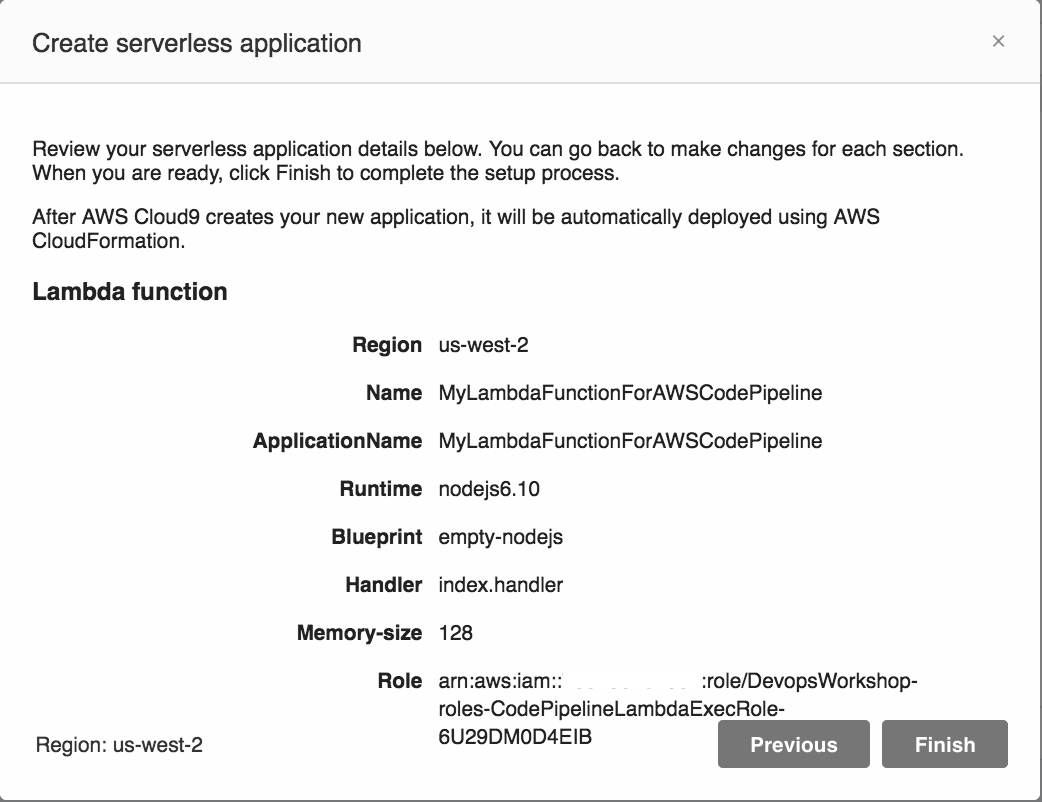
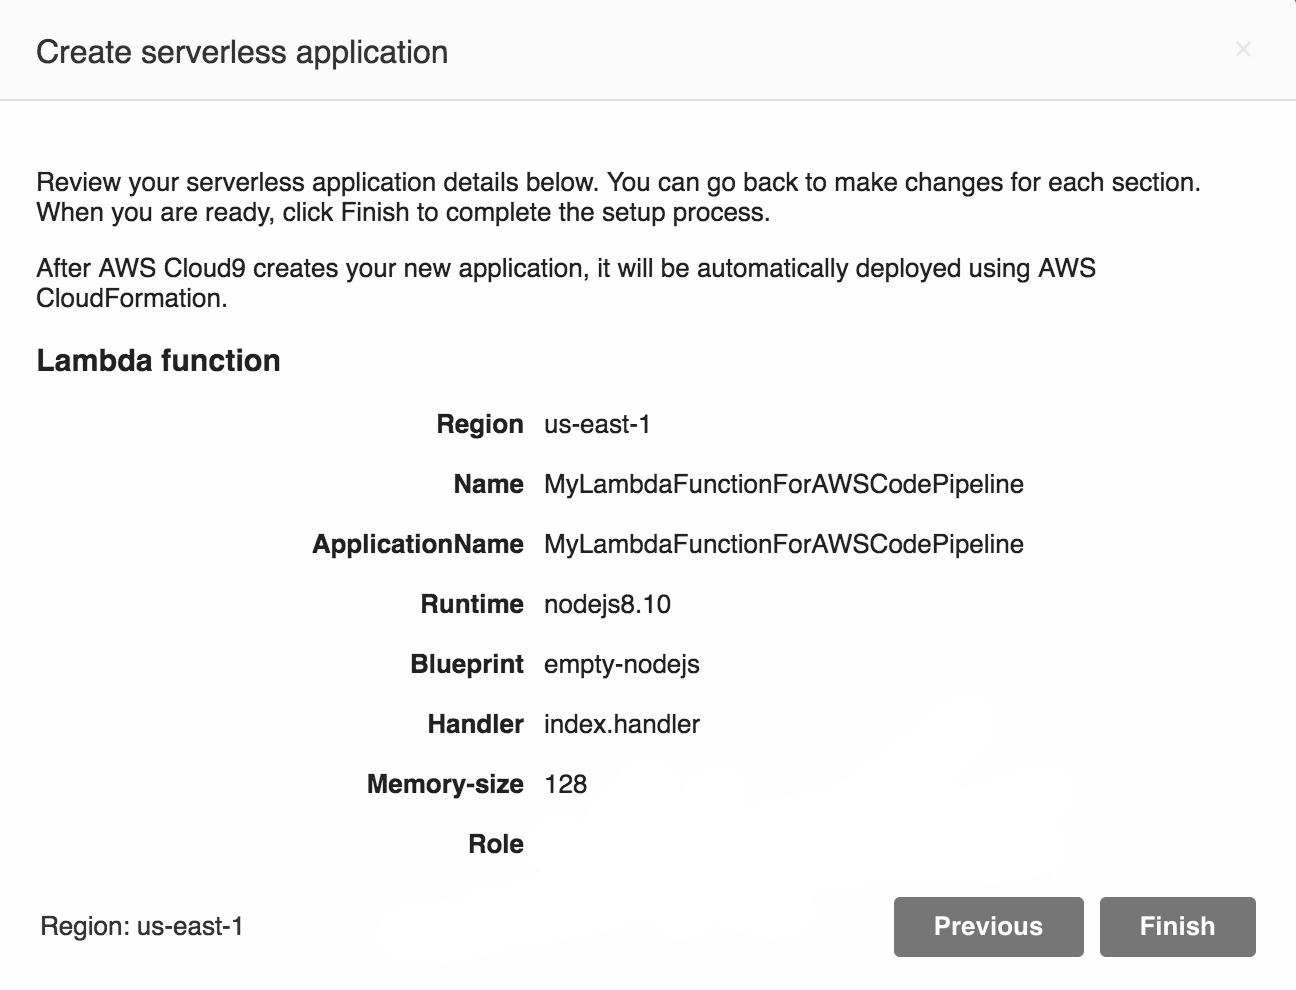
Updated Node.js

diff --git a/4_Lab4.md b/4_Lab4.md
@@ -8,9 +8,9 @@
 3. Expand Lambda, and select **λ+** [Create a lambda function]
 4. Enter Function Name as **MyLambdaFunctionForAWSCodePipeline**
 5. Click **Next**
-6. Select runtime as **Node.js 6.10** and blue print as **empty-nodejs**
+6. Select runtime as **Node.js 8.10** and blue print as **empty-nodejs**
 7. Click **Next**
-8. Select Function trigger as **None** and click **Next**
+8. Select Function trigger as **none** and click **Next**
 9. For Role, select **choose an existing role** and select **CodePipelineLambdaExecRole** which we created as part of the Lab 1 setup.
 10. Click **Next** and preview the changes. Once done, click **Finish**.
 ![LambdaConfig](./img/Lab4-Lambda-Config.png)
